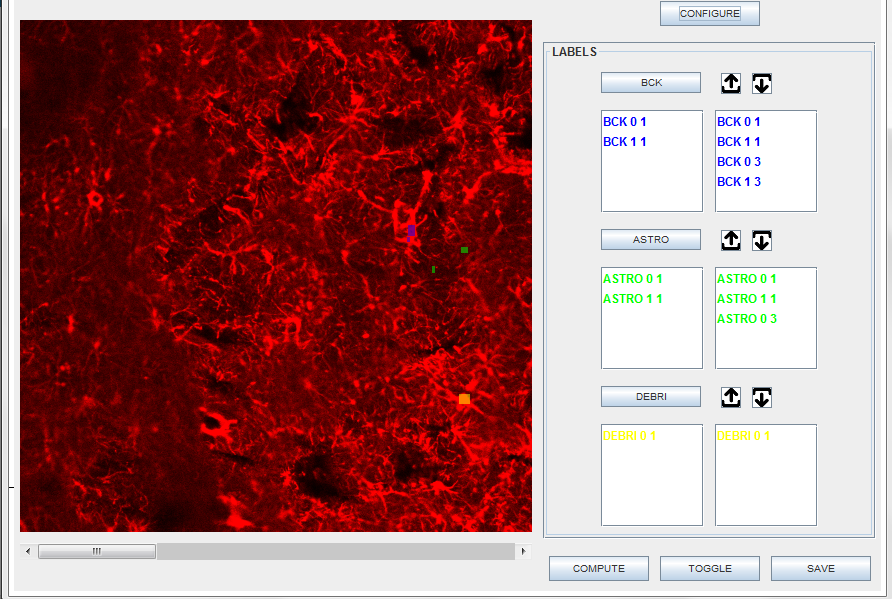
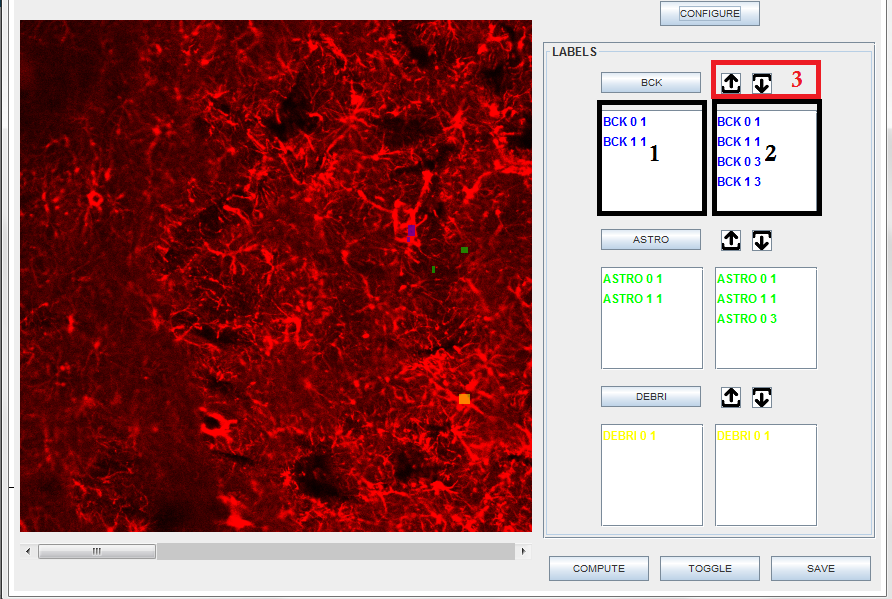
Feature
Feature

Changed region(s): [[0.6659, 0.0902, 0.9383, 0.3606], [0.8475, 0.2404, 0.8778, 0.2705], [0.7265, 0.2404, 0.7567, 0.2705]]

diff --git a/index.html b/index.html
@@ -13,9 +13,9 @@
     <section class="page-header">
       <h1 class="project-name">Active Segmentation</h1>
         <h2 class="project-tagline">Active Segmentation Plugin for ImageJ - GSOC 2016</h2>
-      <a href="" class="btn">View on GitHub</a>
-      <a href="" class="btn">Download .zip</a>
-      <a href="" class="btn">Download .tar.gz</a>
+      <a href="https://github.com/sumit3203/GOOGLESUMMERCODE2016" class="btn">View on GitHub</a>
+      <a href="https://github.com/sumit3203/GOOGLESUMMERCODE2016/zipball/master" class="btn">Download .zip</a>
+      <a href="https://github.com/sumit3203/GOOGLESUMMERCODE2016/tarball/master" class="btn">Download .tar.gz</a>
     </section>
 
     <section class="main-content">
@@ -70,10 +70,11 @@ The session file must be in JSON format.The second image shows the window for br
 <p>As can be seen from the "ObjectMapper" in the code, the session file was mapped using the Jackson API, version 2.3.1. </p>
 <h3>
 <a id="Filter-Framework" class="anchor" href="#Filter-Framework" aria-hidden="true"><span class="octicon octicon-link"></span></a>Filter Framework</h3>
-<p>Filter Framework is responsible for automatic loading of Filters. 
-It will load all the filters those have implemented "IFilter" interface. 
+<p>Filter Framework is responsible for automatic loading of Filters.It automatically finds all JAR 
+  files in the path and first level of subdirectories and those have implemented "IFilter" interface. 
  </p>
 <p>Active Segmentation Filters Screen<img src="images/FilterScreen.png"> </p>
+<ul>
 <li>The right black marked box is used to enable the unselected filters. User need to double click on filter name to enable it </li>
 <li>The Settings for each filter is provided in the centre along with the shape of filter </li>
 <li>Filters process is started using the "Compute" button.</li>
@@ -81,12 +82,27 @@ It will load all the filters those have implemented "IFilter" interface.
 <li>The "View" button is used to view the filters result for each image slice. </li>
 <li>The "Default" button is used to set the set default settings for the filter as provided by the developers .</li>
 </ul>
-<h3>
-<pre><code>
 
-</code></pre>
+<h3>
 <a id="Feature-Screen" class="anchor" href="#Feature-Screen" aria-hidden="true"><span class="octicon octicon-link"></span></a>Feature Screen</h3>
+<p>Feature Screen of the active segmentation is very similar to the TWS(Trainable Weka Segmentation). It will start with two classes i.e 
+Binary Classification   
+ </p>
 <p>Active Segmentation Features Screen<img src="images/FeatureScreen.png"></p>
+<ul>
+<li>The Configure button is used to go "Class Screen". The details regarding the class screen is discussed in the next section</li>
+<li>The user can add region of interest to class using "class button" i.e BCK, ASTRO etc.</li>
+<li>As seen in "Red Box in Feature Screen", the user can also upload or download region of interest to class using "upload or download buttons" </li>
+<li>As seen in "Box 1 in Feature Screen", It will show all the ROI's belong to current slice.
+The user can delete the region of interest by double click on particular ROI.</li>
+<li>As seen in "Box 2 in Feature Screen", It will show all the ROI's belong to class.
+The user can delete the region of interest by double click on particular ROI.</li>
+<li>Meta Data is dumped using the "Save" button.</li>
+<li>Learning is started using the "Compute" button. Once the learning is completed, The "overlay image" will be generated</li>
+<li>Meta Data is dumped using the "Save" button.</li>
+<li>The "toggle" button is used to switch between "overlay image" and "original image". </li>
+</ul>
+
 <h3>
 <a id="Class-Screen" class="anchor" href="#Class-Screen" aria-hidden="true"><span class="octicon octicon-link"></span></a>Class Screen</h3>
 <p><img src="images/ClassScreen.png"></p>
